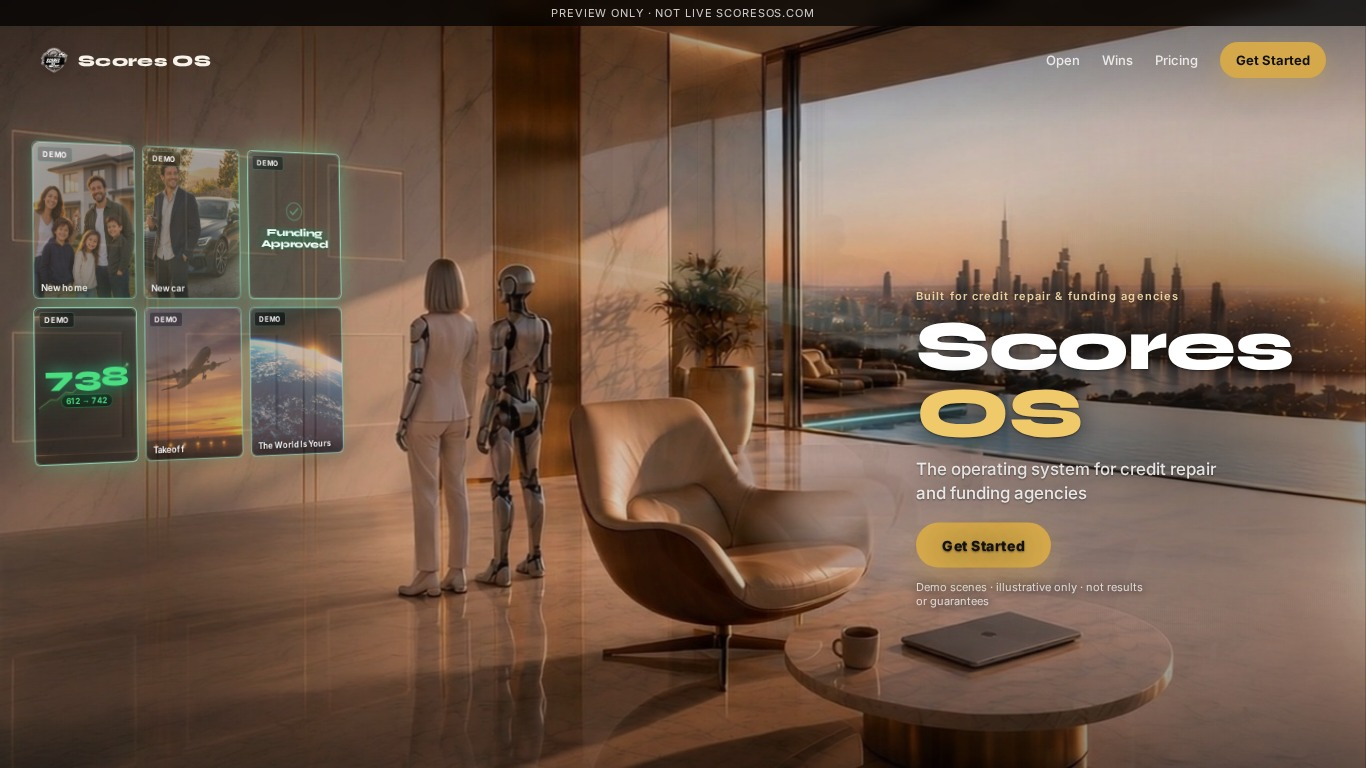
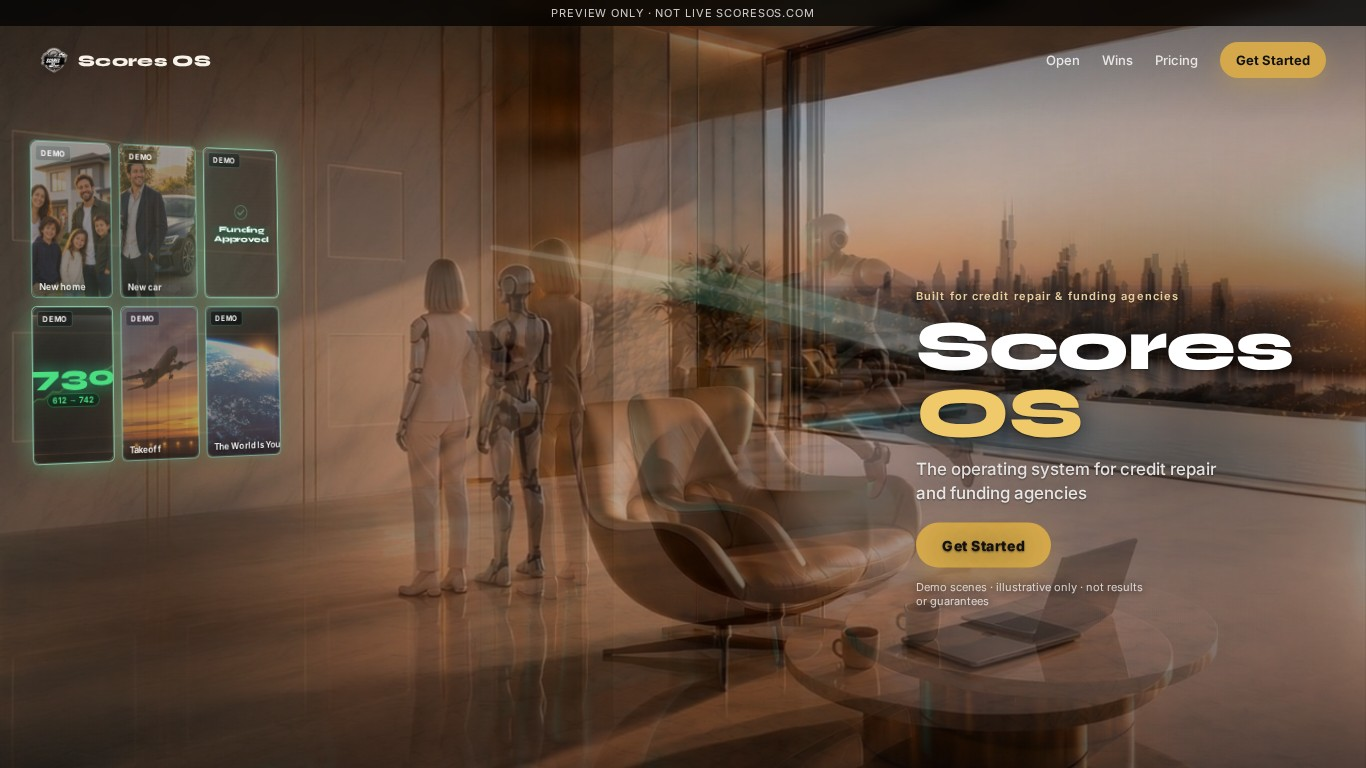
v5m: shrink wall to 300/1440 so Funding/World clear Maxine
Landed settle plate puts Maxine further left than the mid-fly plate;
380/1440 was tight/overlapping — 300/1440 yields ~296px wall right @1440.

diff --git a/v5/styles.css b/v5/styles.css
@@ -228,7 +228,7 @@ a { color: inherit; text-decoration: none; }
   /* Narrower than v5i 3–37%: without scale(1.22) Maxine sits ~28% @1440; wall must end before her */
   left: max(16px, calc(36 / 1440 * 100vw)); /* ~2.5% */
   top: calc(165 / 900 * 100vh); /* under nav, above floor */
-  width: calc(380 / 1440 * 100vw); /* layout; perspective → ~26% right @1440, clear of Maxine */
+  width: calc(300 / 1440 * 100vw); /* v5m2: landed settle puts Maxine ~x310@1440; keep wall right ≤~290 */
   height: calc(380 / 900 * 100vh); /* slightly taller so tiles stay readable when narrower */
   display: grid;
   grid-template-columns: repeat(3, 1fr);
@@ -246,7 +246,7 @@ a { color: inherit; text-decoration: none; }
 }
 .wall.mid-reveal,
 .wall.settled {
-  width: calc(380 / 1440 * 100vw);
+  width: calc(300 / 1440 * 100vw);
 }
 .wall-spill {
   position: absolute;
